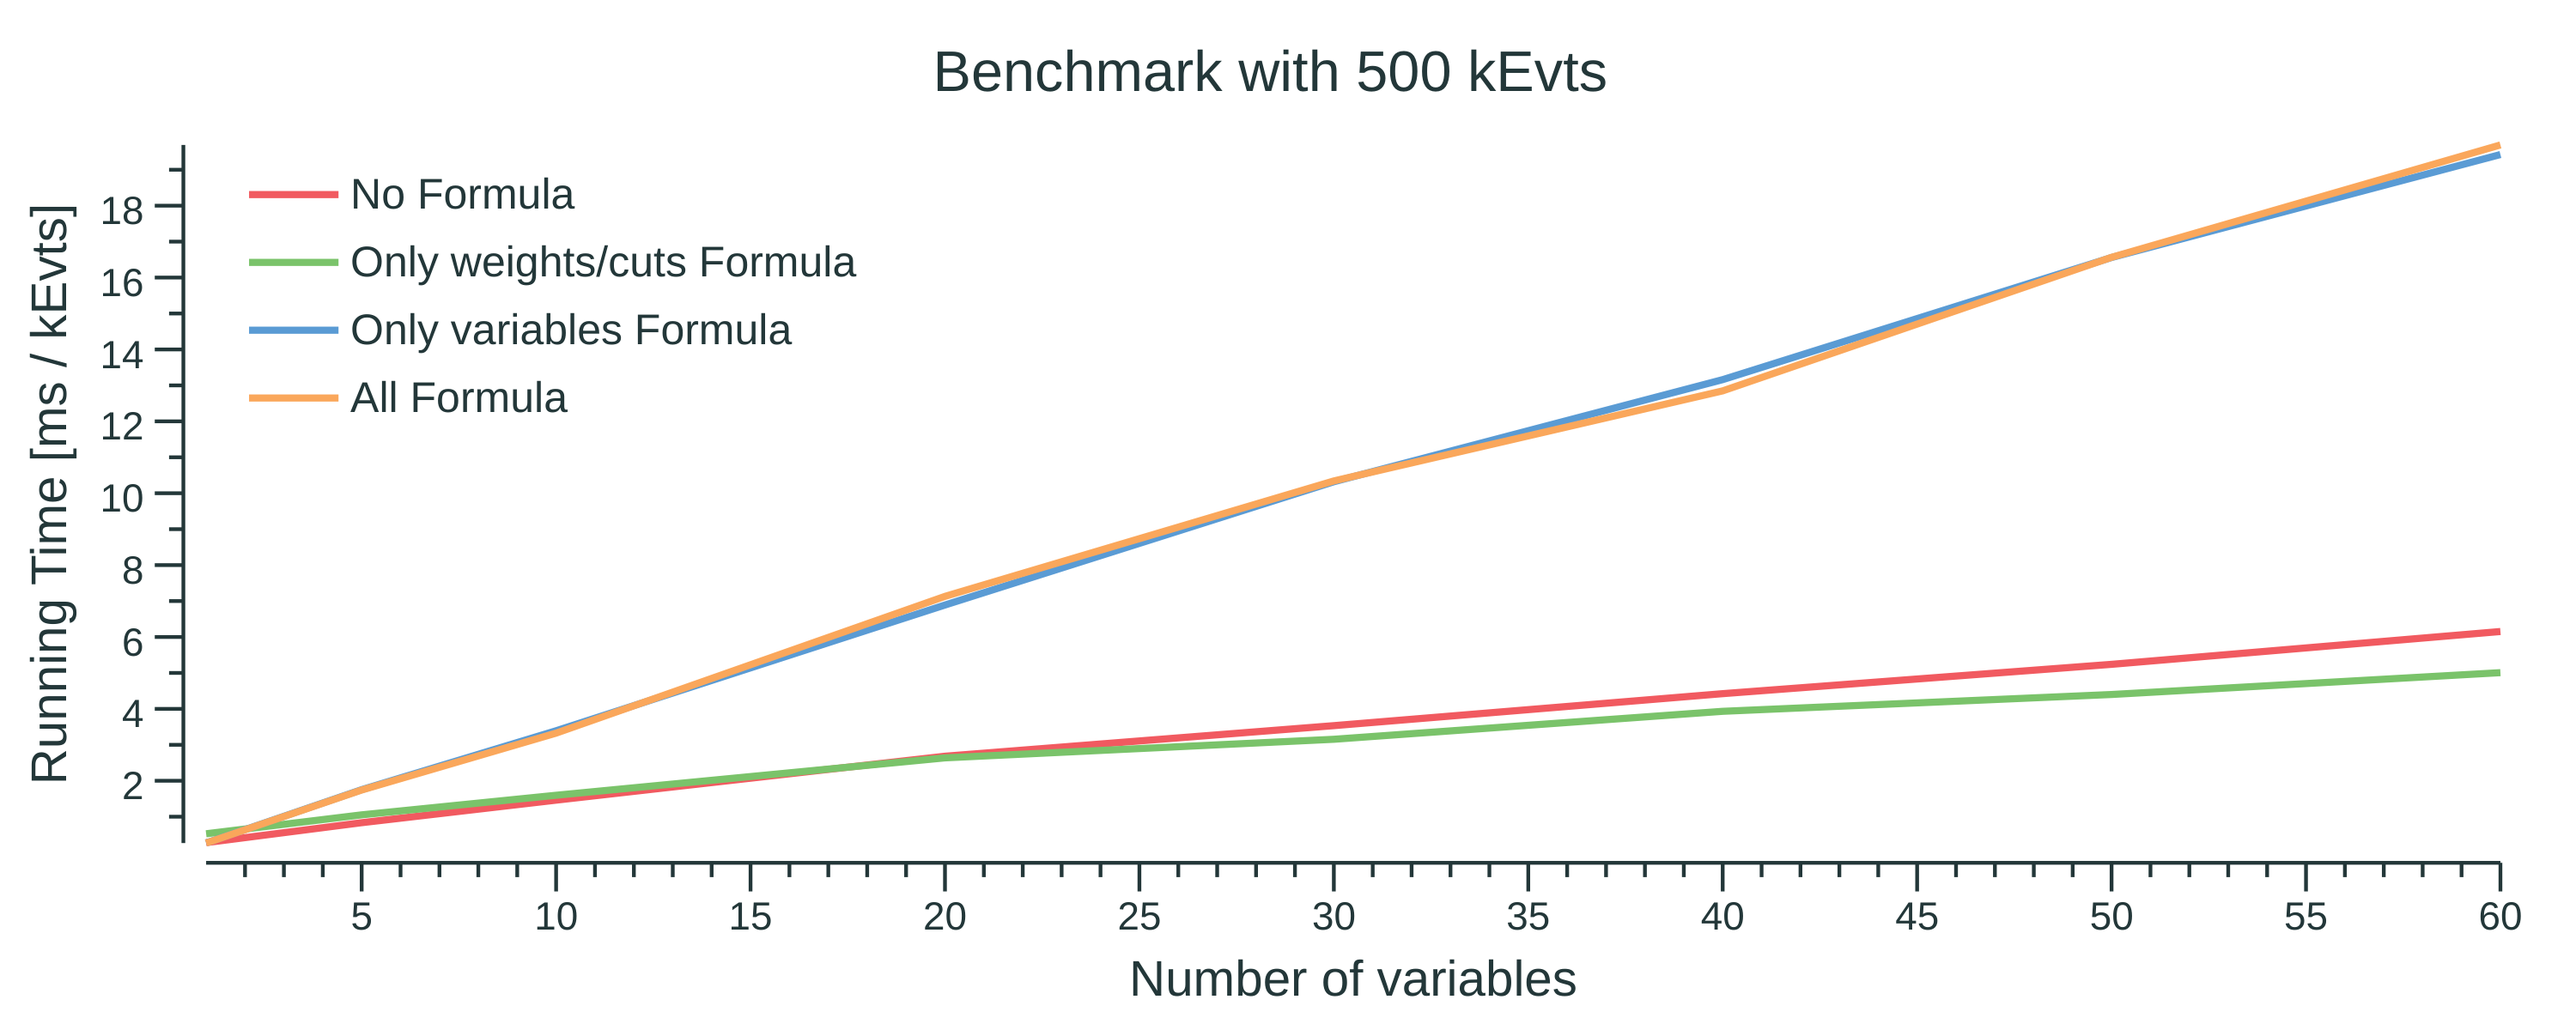
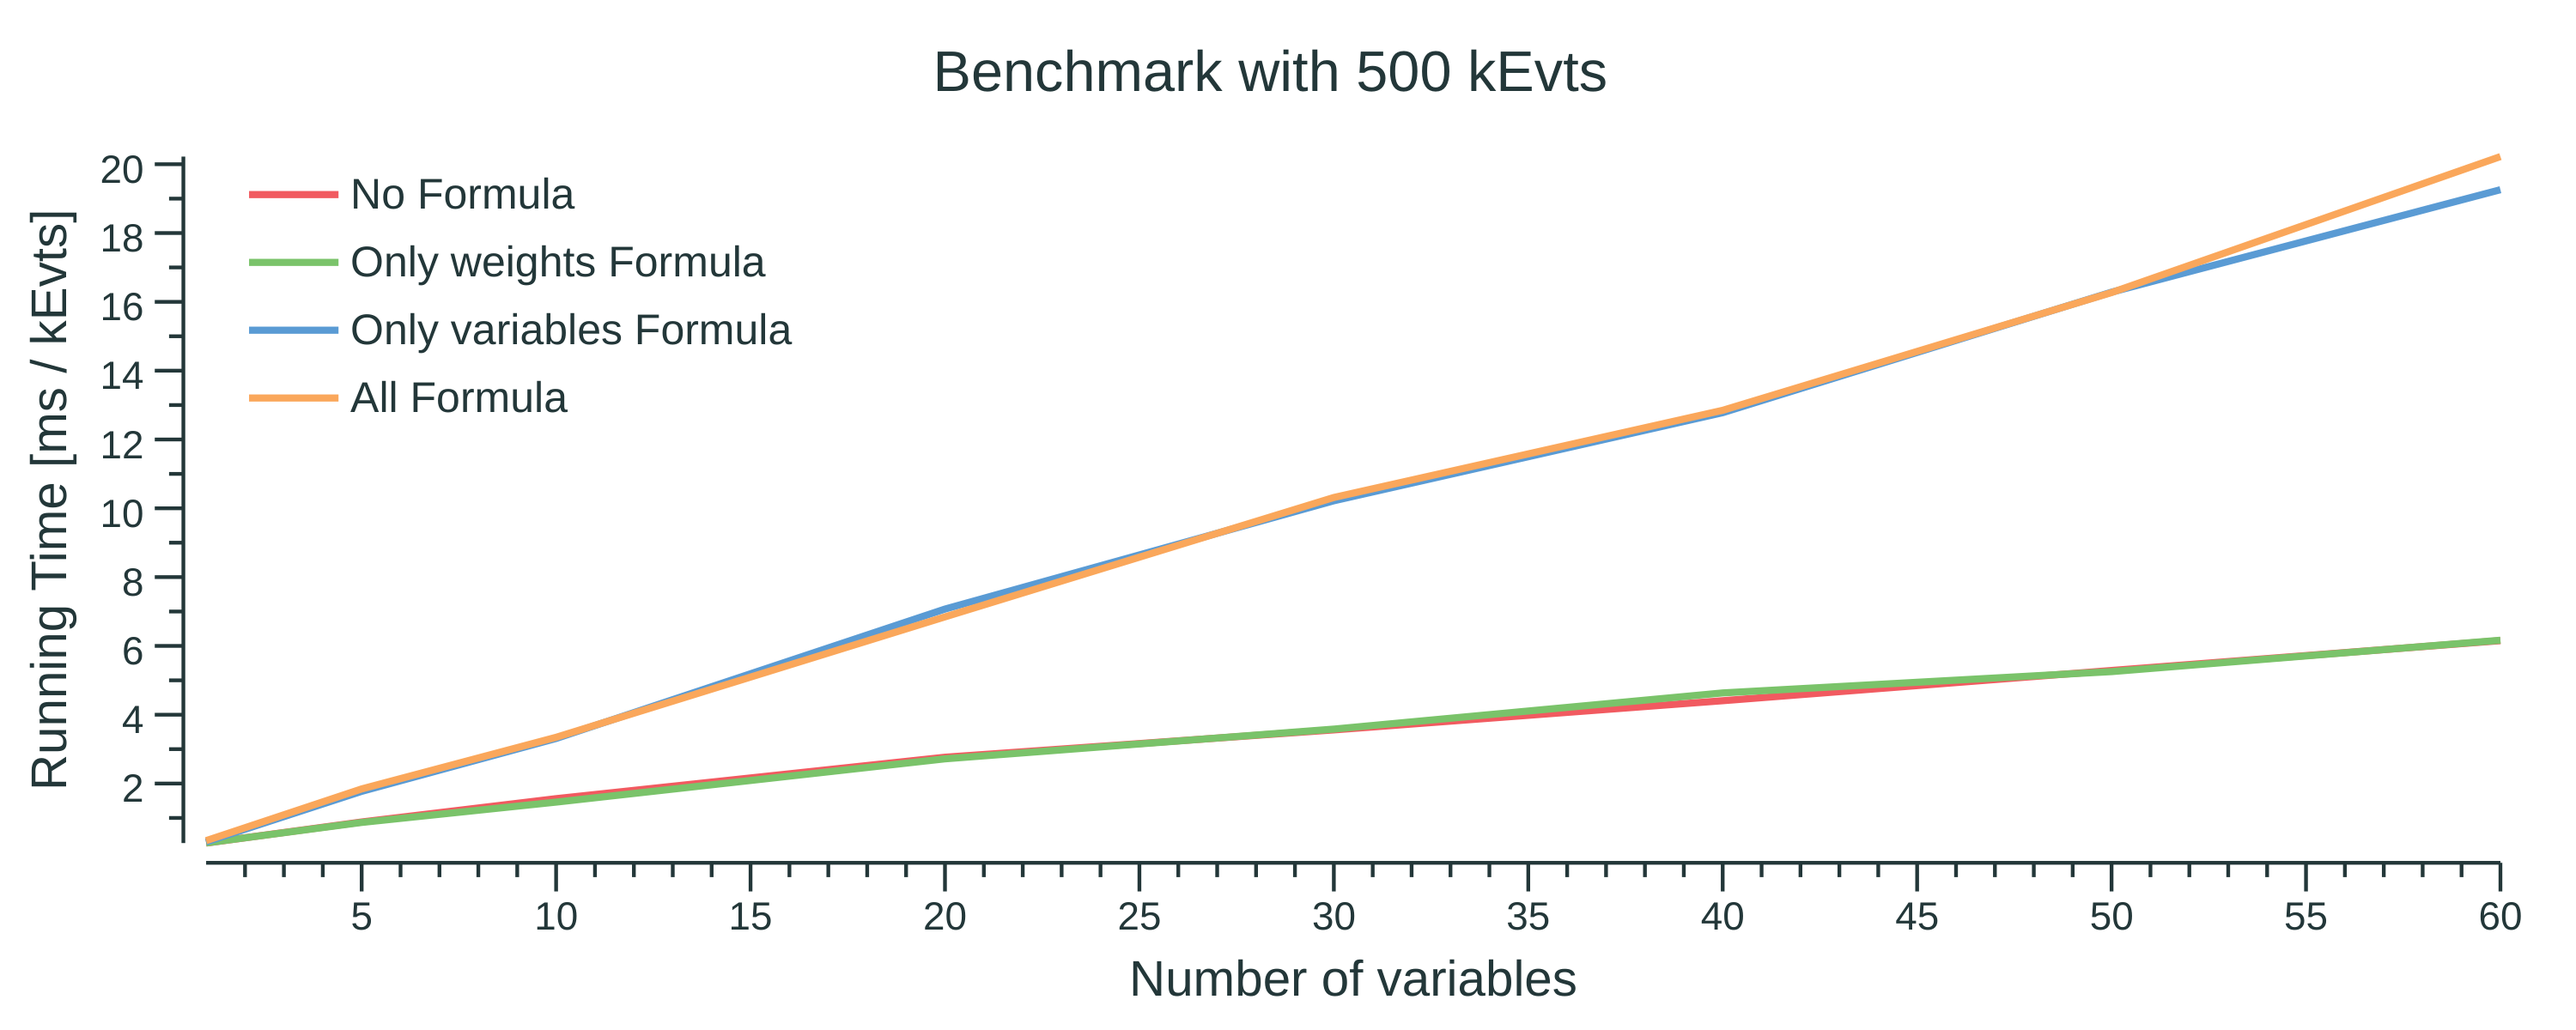
Remove the cuts since it biases the benchmarks

diff --git a/ana-perf/main.go b/ana-perf/main.go
@@ -75,7 +75,7 @@ func plotBenchmarks(s1, s2, s3, s4, n []float64) *hplot.Plot {
 
 	// Add graph to the legend
 	p.Legend.Add(`No Formula`, g1)
-	p.Legend.Add(`Only weights/cuts Formula`, g2)
+	p.Legend.Add(`Only weights Formula`, g2)
 	p.Legend.Add(`Only variables Formula`, g3)
 	p.Legend.Add(`All Formula`, g4)
 	p.Legend.Top = true
@@ -107,19 +107,19 @@ func runTest(n10kEvtsPerSample, nVariables int, varFormula, noCutWeight bool) fl
 	loadManyComponents(splData, n10kEvtsPerSample)
 
 	// Background 1
-	splBkg1 := ana.NewSample("bkg1", "bkg", `Proc 1`, ana.WithWeight(w1), ana.WithCut(isGG))
+	splBkg1 := ana.NewSample("bkg1", "bkg", `Proc 1`, ana.WithWeight(w1))
 	loadManyComponents(splBkg1, n10kEvtsPerSample)
 
 	// Background 2
-	splBkg2 := ana.NewSample("bkg2", "bkg", `Proc 2`, ana.WithWeight(w2), ana.WithCut(isQQ))
+	splBkg2 := ana.NewSample("bkg2", "bkg", `Proc 2`, ana.WithWeight(w2))
 	loadManyComponents(splBkg2, n10kEvtsPerSample)
 
 	// Background 3
-	splBkg3 := ana.NewSample("bkg3", "bkg", `Proc 3`, ana.WithWeight(w1), ana.WithCut(isGG))
+	splBkg3 := ana.NewSample("bkg3", "bkg", `Proc 3`, ana.WithWeight(w1))
 	loadManyComponents(splBkg3, n10kEvtsPerSample)
 
 	// Background 4
-	splBkg4 := ana.NewSample("bkg4", "bkg", `Proc 4`, ana.WithWeight(w2), ana.WithCut(isQQ))
+	splBkg4 := ana.NewSample("bkg4", "bkg", `Proc 4`, ana.WithWeight(w2))
 	loadManyComponents(splBkg4, n10kEvtsPerSample)
 
 	// Group samples together

diff --git a/ana-perf/README.md b/ana-perf/README.md
@@ -5,22 +5,22 @@
 
 ## How to run each setup?
 
-**1.** Use explicit loading for variables and `rtree.Formula` for weight and cuts:
-```
-go run ./main.go
-```
-
-**2.** Use explicit loading for variables but disable `rtree.Formula` of weights and cuts (not applied):
-```
-go run ./main.go -noCutWeight
+**1.** Use explicit loading for variables and `rtree.Formula` for weight:
+```go
+t := runTest(n10kEvtsPerSample, nVars, false, false)
 ```
 
-**3.** Use `rtree.Formula` for variables and disable `rtree.Formula` of weights and cuts (not applied):
-```
-go run ./main.go -varFormula -noCutWeight
+**2.** Use explicit loading for variables but disable `rtree.Formula` of weights (*i.e.* not applied):
+```go
+t := runTest(n10kEvtsPerSample, nVars, false, true)
 ```
 
-**4.** Use `rtree.Formula` for variables and `rtree.Formula` for weights and cuts:
+**3.** Use `rtree.Formula` for variables and disable `rtree.Formula` of weights (*i.e.* not applied):
+```go
+t := runTest(n10kEvtsPerSample, nVars, true, true)
 ```
-go run ./main.go -varFormula
+
+**4.** Use `rtree.Formula` for variables and `rtree.Formula` for weights:
+```go
+t := runTest(n10kEvtsPerSample, nVars, true, false)
 ```
